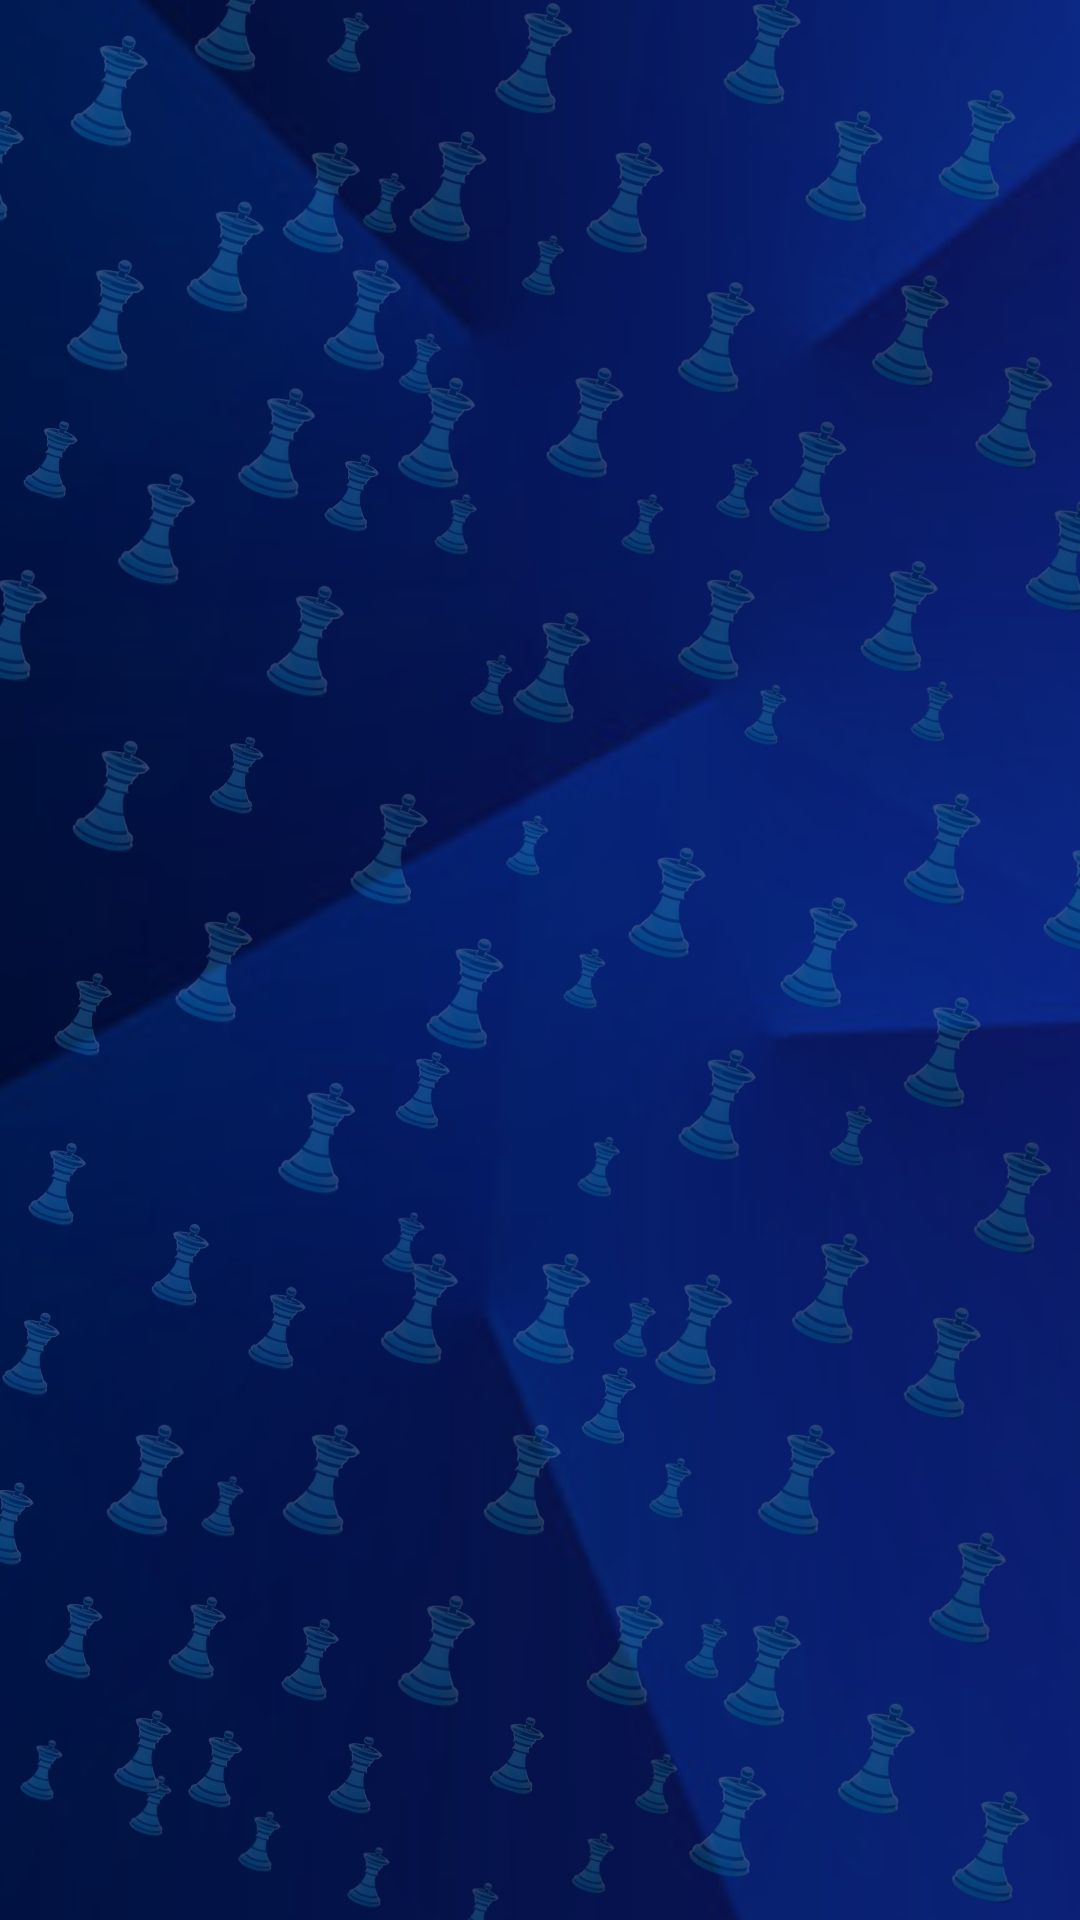
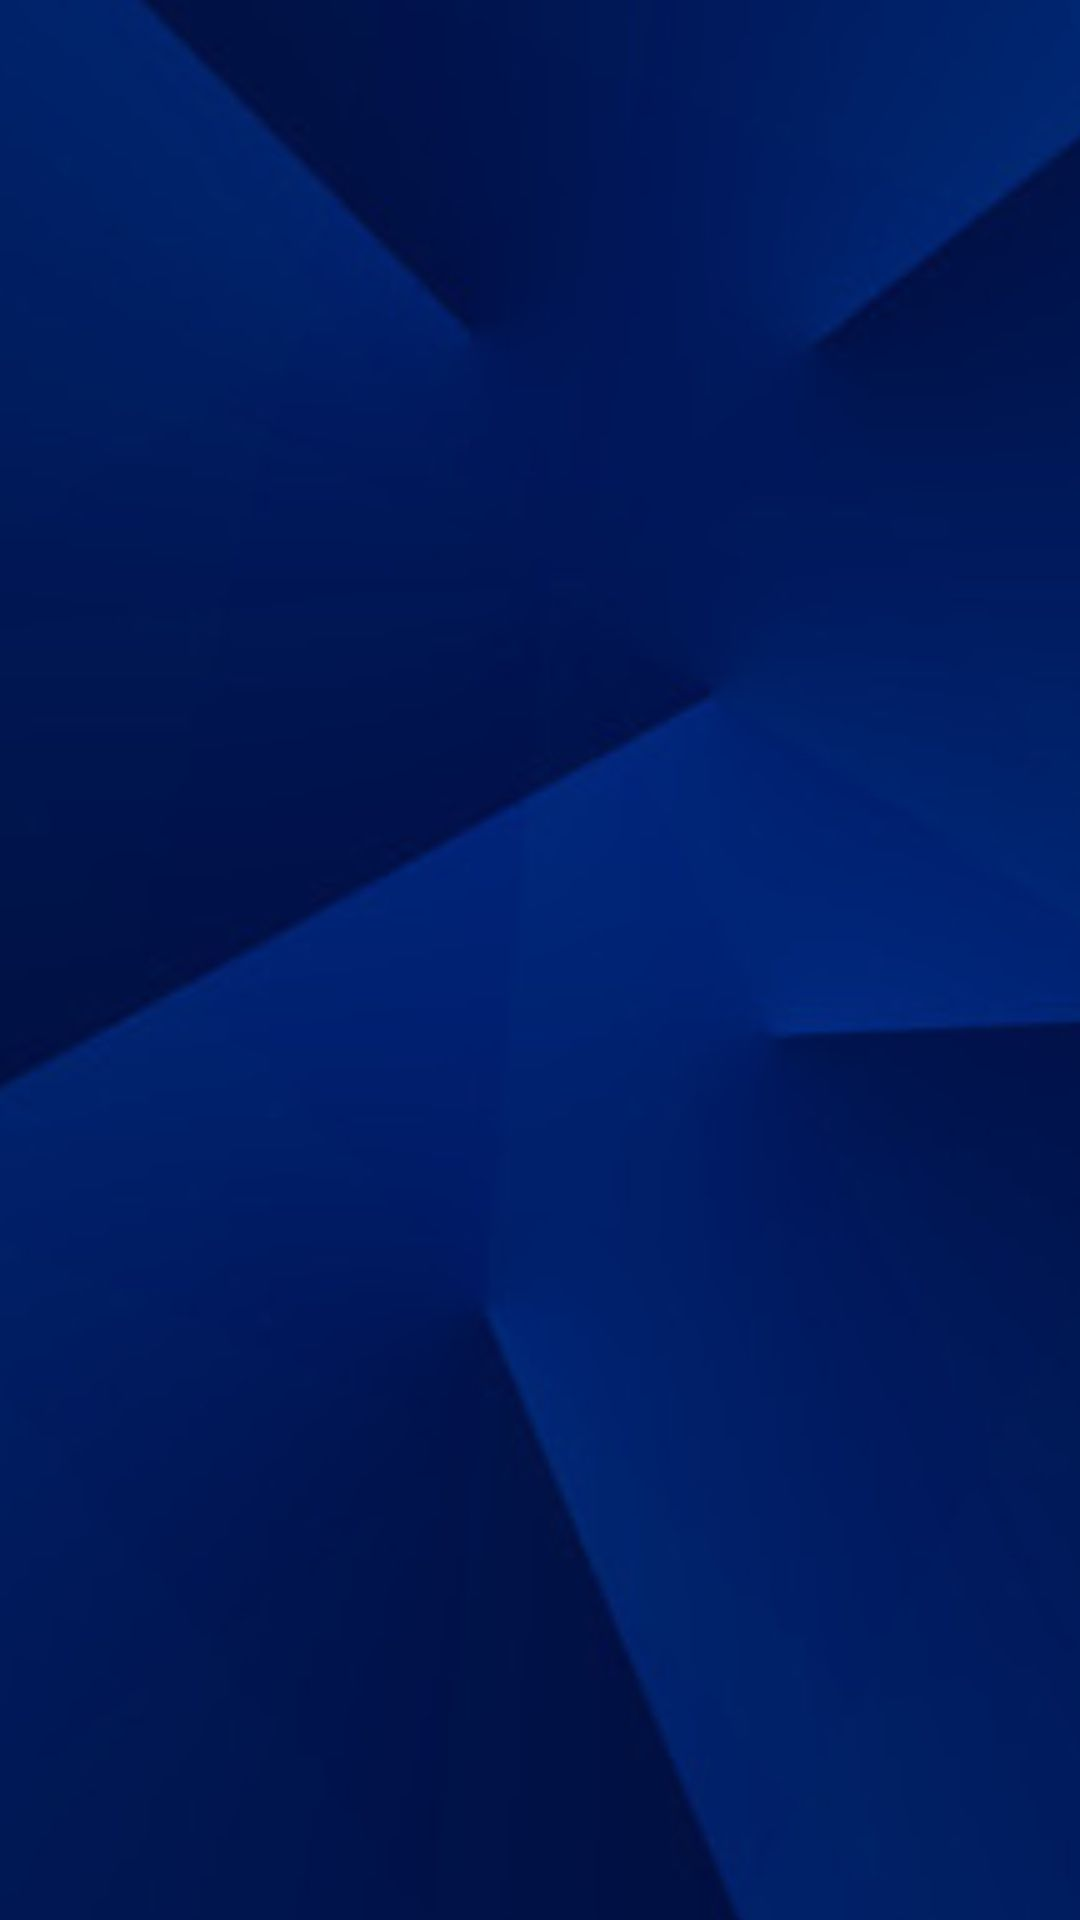
chat channel live

diff --git a/client/src/utils/Colors.js b/client/src/utils/Colors.js
@@ -14,6 +14,7 @@ export const colorChess = [
       spinner: '4px solid rgba(23, 21, 21, 0.5)',
       colorBorder: '#fff',
       background_login: 'linear-gradient(to top, rgb(35, 33, 33) 0%, rgb(39, 135, 213) 100%)',
+      fondoChat: '/fondos/fondo_chat1.jpg',
     },
     { 
       id: 2, 
@@ -30,5 +31,6 @@ export const colorChess = [
       spinner: '4px solid rgba(255, 255, 255, 0.9)',
       colorBorder: '#85C1E9',
       background_login: 'linear-gradient(to top, rgba(35, 33, 33, 0.2) 0%, rgba(7, 43, 72, 0.7) 100%)',
+      fondoChat: '/fondos/fondo_chat.jpg',
     }
   ]

diff --git a/client/src/components/channel/Chat.jsx b/client/src/components/channel/Chat.jsx
@@ -107,7 +107,8 @@ function Chat({ socket, username, room }) {
         <strong>Live Chat</strong>
       </div>
       <div
-        className={style.messages}   
+        className={style.messages} 
+        style={{backgroundImage: `url(${chessColor.fondoChat})`}}  
       >
           {messageList.map((messageContent, index) => {
             return (
